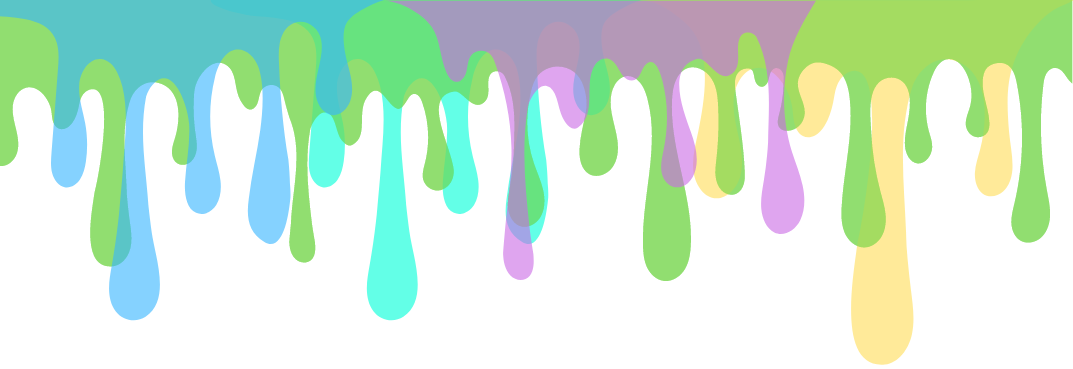
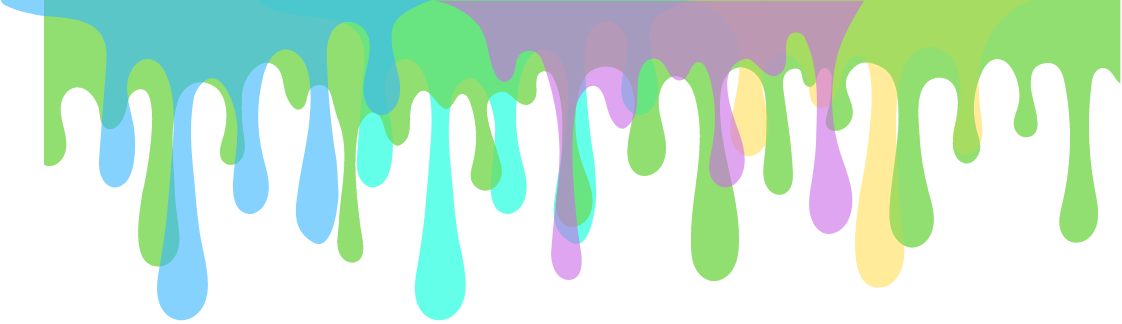
Cambios sobre las reglas de estilo CSS del muro de la aplicación para agregar el icono de eliminar y editar los post y también volver el tamaño del contenerdor a su ancho estrecho para que no se expanda cuando se use en desktop

diff --git a/src/style.css b/src/style.css
@@ -220,37 +220,62 @@ h1#tituloPass {
   margin-top: 150px;
 }
 /*----------------------Wall--------------*/
-
 #wall {
     margin: 0;
     box-sizing: border-box;
+    
 }
-
+  
 #timeLine {
-    position: absolute;
+    margin: 0;
+    padding: 0;
+    box-sizing: border-box;
+    text-align: center;
+    height: 100vh;
+    width: 100vw;
+    background-color: var(--wall-color);
 }
+  
+#containerWall {
+    display: flex;
+    flex-direction: column;
+    position: relative;
+    min-width: 400px;
+    margin: 0 auto; /* Alinear horizontalmente al centro */
+    justify-content: center;
+    background-color: var(--wall-color);
+}
+  
 
 #headerWall {
-    background-image: url(img/encabezadoMobile.png);
-    background-size: cover;
-    background-repeat: no-repeat;
+    display: flex;
+    background-color: #f1f1f1;
     height: 150px;
     position: relative;
+    min-width: 400px; /* Ancho mínimo */
+    justify-content: center;
     z-index: 1; /* Ajusta el valor según sea necesario */
 }
   
-div#newPostArea {
-    flex-direction: row;
-    align-items: center; /* Centrar horizontalmente */
-    justify-content: center; /* Centrar verticalmente */
+#headerWall::before {
+    content: "";
+    background-image: url(img/encabezadoMobile.png);
+    background-size: cover;
+    background-repeat: no-repeat;
+    position: absolute;
+    top: 0;
+    left: 0;
+    width: 100%;
+    height: 100%;
+    z-index: -1;
 }
+  
 
 img#logoWall {
     position: absolute;
     top: 5px;
     left: 5px;
     width: 120px;
-    
 }
 
 button#logOut {
@@ -273,25 +298,27 @@ button#logOut:active {
     transform: scale(0.9);
   }
 
-div#allPosts {
-    background-color: var(--wall-color);
-    top: 300px;
+#allPosts {
     display: flex;
+    position: relative;
+    background-color: var(--wall-color);
+    top: 0px;
     flex-direction: column;
     align-items: center; /* Centrar horizontalmente */
-    justify-content: center; /* Centrar verticalmente */
-    width: 100vw;
+    min-width: 400px; /* Ancho mínimo */
+    justify-content: center;
     /* Esto es opcional, ajusta la altura según tu diseño */
 }
   
 div.postContent {
     background-color: white;
-    margin-top: 20px;
+    margin-bottom: 11px;
     display: flex;
     flex-direction: column;
     align-items: center; /* Centrar horizontalmente */
-    justify-content: center; /* Centrar verticalmente */
-    width: 90vw;
+    min-width: 330px; /* Ancho mínimo */
+    
+    justify-content: center;
 }
 
 div.postHeader {
@@ -302,51 +329,62 @@ div.postHeader {
     justify-content: center; /* Centrar verticalmente */
 }
 
-div.counters {
-    background-color: white;
-    border-top: black solid 1px;
-    margin: 5px;
-    padding: 3px;
-    display: flex;
-    flex-direction: row;
-    align-items: center; /* Centrar horizontalmente */
-    justify-content: right; /* Centrar verticalmente */
-    width: 89vw;
-    gap: 100px; /* Espacio entre elementos */
-}
-
 #iconoLogo {
     position: relative;
     top: -5px;
     left: -18px;
 }
-div#newPostArea{
+
+#newPostArea {
+    padding: 5px;
     display: flex;
-    top: 50px;
-    width: 100%;
-    height: 80px;
-    background: white;
+    position: relative;
+    top: 0px;
+    height: 100px;
+    background-color: var(--wall-color);
+    width: 370px;
+    margin: 0 auto; /* Centrar horizontalmente */
     gap: 10px;
 }
-input#newPost {
+  
+div#newPostAreaTop {
+    padding: 5px;
+    display: flex; /* Añadido */
+    flex-direction: row; /* Asegura que los elementos estén en fila */
+    position: relative;
+    top: 5.5px;
+    height: 80px;
+    background: white;
+    min-width: 340px; /* Ancho mínimo */
+    margin: 0 auto; /* Centrar horizontalmente */
+    gap: 10px;
+    align-items: center; /* Centrar verticalmente */
+    justify-content: center;
+}
+  
+#newPost {
     background-color: var(--wall-color);
     height: 60px;
-    width: 270px;
+    width: 250px;
     font-size: 1.1em;
     border: var(--wall-color);
+    display: flex;
+    align-items: center; /* Centrar verticalmente */
+    justify-content: center; /* Centrar horizontalmente */
 }
-
+  
 #buttonPublish {
     height: 60px;
     width: 58px;
     display: flex;
+    align-items: center; /* Centrar verticalmente */
+    justify-content: center; /* Centrar horizontalmente */
     flex-direction: column;
-    align-items: center; /* Centrar horizontalmente */
-    justify-content: center; /* Centrar verticalmente */
     border-radius: 10px;
-    border: var(--wall-color);;
+    border: var(--wall-color);
     font-size: 0.9em;
 }
+  
 
 #sectionWall{
     background: var(--wall-color);
@@ -362,18 +400,33 @@ div#divPost {
 img#underConstruction{
     width: 200px;
 }
-.postContent {
 
-    margin-bottom: 0.5px;
-}
-
-div.comments {
+.iconBar {
+    background-color: white;
+    border-top: black solid 1px;
+    margin: 5px;
+    padding: 3px;
     display: flex;
-    flex-direction: row; /* Dos columnas automáticas */
-    justify-content: right; /* Justificar contenido hacia la derecha */
-    align-items: flex-end; /* Alinear contenido hacia abajo */
-    gap: 3px; 
+    flex-direction: row;
+    align-items: center; /* Centrar horizontalmente */
+    justify-content: center; /* Centrar verticalmente */
+    min-width: 330px; /* Ancho mínimo */
+    
+    gap: 100px; /* Espacio entre elementos */
 }
+
+div.edit {
+    display: flex;
+    justify-content: right; /* Justificar contenido hacia la derecha */
+    align-items: start; /* Alinear contenido hacia abajo */
+}
+
+div.trash {
+    display: flex;
+    justify-content: start; /* Justificar contenido hacia la derecha */
+    align-items: start; /* Alinear contenido hacia abajo */
+}
+
 
 div.likes {
     display: flex;

diff --git a/src/components/wall.js b/src/components/wall.js
@@ -20,9 +20,14 @@ function wall(navigateTo) {
     logOut(auth);
     navigateTo('/login');
   });
+  /*-----------------------------------Sección contenedor de cuerpo----------------------- */
+  const divContainerWall = document.createElement('section');
+  divContainerWall.id = 'containerWall'
   /*-----------------------------------Input caja de texto para publicacion----------------------- */
   const divNewPost = document.createElement('div');
   divNewPost.id = 'newPostArea';
+  const divNewPostTop = document.createElement('div');
+  divNewPostTop.id = 'newPostAreaTop';
   const inputNewPost = document.createElement('input');
   inputNewPost.id = 'newPost';
   inputNewPost.type = 'text';
@@ -43,7 +48,8 @@ function wall(navigateTo) {
     loadAllPostStart();
   });
 
-  divNewPost.append(inputNewPost, buttonPublishNewPost);
+  divNewPostTop.append(inputNewPost, buttonPublishNewPost);
+  divNewPost.append(divNewPostTop);
   /* -----------------------------------Cajas para despligue de publicaciones------------------- */
   const divAllPosts = document.createElement('div');
   divAllPosts.id = 'allPosts';
@@ -75,17 +81,25 @@ function wall(navigateTo) {
         <p>${doc.data().post}</p>
         </div>
       </div>
-      <div class="counters">
-        <div class="comments">
-        <svg class="commentIcon" width="20" height="20" viewBox="0 0 24 24" fill="none" stroke="currentColor" stroke-width="2" stroke-linecap="round" stroke-linejoin="round" aria-hidden="true"><path d="M21 11.5a8.38 8.38 0 0 1-.9 3.8 8.5 8.5 0 0 1-7.6 4.7 8.38 8.38 0 0 1-3.8-.9L3 21l1.9-5.7a8.38 8.38 0 0 1-.9-3.8 8.5 8.5 0 0 1 4.7-7.6 8.38 8.38 0 0 1 3.8-.9h.5a8.48 8.48 0 0 1 8 8v.5z"></path></svg>
-        <div class="comment-count">${doc.data().comments}</div>
-      </div>
-        <div class="likes">
-        <svg  class="likeIcon" width="20" height="20" viewBox="0 0 24 24" fill="${userLikePost > 0 ? "red" : "none"}"  stroke="currentColor" stroke-width="2" stroke-linecap="round" stroke-linejoin="round" aria-hidden="true"><path class="likeIcon"  d="M20.84 4.61a5.5 5.5 0 0 0-7.78 0L12 5.67l-1.06-1.06a5.5 5.5 0 0 0-7.78 7.78l1.06 1.06L12 21.23l7.78-7.78 1.06-1.06a5.5 5.5 0 0 0 0-7.78z"></path></svg>
-        <div class="likes-count">
-        ${likeCount}
+      <div class="iconBar">
+
+        <div class="edit">
+          <svg xmlns="http://www.w3.org/2000/svg"  viewBox="0 0 50 50" width="20px" height="20px"><path d="M 43.125 2 C 41.878906 2 40.636719 2.488281 39.6875 3.4375 L 38.875 4.25 L 45.75 11.125 C 45.746094 11.128906 46.5625 10.3125 46.5625 10.3125 C 48.464844 8.410156 48.460938 5.335938 46.5625 3.4375 C 45.609375 2.488281 44.371094 2 43.125 2 Z M 37.34375 6.03125 C 37.117188 6.0625 36.90625 6.175781 36.75 6.34375 L 4.3125 38.8125 C 4.183594 38.929688 4.085938 39.082031 4.03125 39.25 L 2.03125 46.75 C 1.941406 47.09375 2.042969 47.457031 2.292969 47.707031 C 2.542969 47.957031 2.90625 48.058594 3.25 47.96875 L 10.75 45.96875 C 10.917969 45.914063 11.070313 45.816406 11.1875 45.6875 L 43.65625 13.25 C 44.054688 12.863281 44.058594 12.226563 43.671875 11.828125 C 43.285156 11.429688 42.648438 11.425781 42.25 11.8125 L 9.96875 44.09375 L 5.90625 40.03125 L 38.1875 7.75 C 38.488281 7.460938 38.578125 7.011719 38.410156 6.628906 C 38.242188 6.246094 37.855469 6.007813 37.4375 6.03125 C 37.40625 6.03125 37.375 6.03125 37.34375 6.03125 Z"/></svg>
         </div>
+
+        <div class="delete">
+          <svg xmlns="http://www.w3.org/2000/svg"  viewBox="0 0 50 50" width="20px" height="20px"><path d="M 42 5 L 32 5 L 32 3 C 32 1.347656 30.652344 0 29 0 L 21 0 C 19.347656 0 18 1.347656 18 3 L 18 5 L 8 5 C 7.449219 5 7 5.449219 7 6 C 7 6.550781 7.449219 7 8 7 L 9.085938 7 L 12.695313 47.515625 C 12.820313 48.90625 14.003906 50 15.390625 50 L 34.605469 50 C 35.992188 50 37.175781 48.90625 37.300781 47.515625 L 40.914063 7 L 42 7 C 42.554688 7 43 6.550781 43 6 C 43 5.449219 42.554688 5 42 5 Z M 20 44 C 20 44.554688 19.550781 45 19 45 C 18.449219 45 18 44.554688 18 44 L 18 11 C 18 10.449219 18.449219 10 19 10 C 19.550781 10 20 10.449219 20 11 Z M 20 3 C 20 2.449219 20.449219 2 21 2 L 29 2 C 29.550781 2 30 2.449219 30 3 L 30 5 L 20 5 Z M 26 44 C 26 44.554688 25.550781 45 25 45 C 24.449219 45 24 44.554688 24 44 L 24 11 C 24 10.449219 24.449219 10 25 10 C 25.550781 10 26 10.449219 26 11 Z M 32 44 C 32 44.554688 31.554688 45 31 45 C 30.445313 45 30 44.554688 30 44 L 30 11 C 30 10.449219 30.445313 10 31 10 C 31.554688 10 32 10.449219 32 11 Z"/></svg>
+        </div>
+
+        <div class="likes">
+          <svg  class="likeIcon" width="20" height="20" viewBox="0 0 24 24" fill="${userLikePost > 0 ? "red" : "none"}"  stroke="currentColor" stroke-width="2" stroke-linecap="round" stroke-linejoin="round" aria-hidden="true"><path class="likeIcon"  d="M20.84 4.61a5.5 5.5 0 0 0-7.78 0L12 5.67l-1.06-1.06a5.5 5.5 0 0 0-7.78 7.78l1.06 1.06L12 21.23l7.78-7.78 1.06-1.06a5.5 5.5 0 0 0 0-7.78z"></path></svg>
+          <div class="likes-count">
+          ${likeCount}
+          </div>
+        </div>
+
       </div>
+
       </div>`;
       content.addEventListener('click', async (e) => {
         console.log(doc.data().likeCount);
@@ -120,7 +134,8 @@ function wall(navigateTo) {
   // esta función hace que se carguen todos los posts al inicio
   loadAllPostStart();
 
-  sectionWall.append(header, divNewPost, divAllPosts);
+  sectionWall.append(header, divContainerWall);
+  divContainerWall.append(divNewPost, divAllPosts);
   header.append(logoWall, logOutButton);
   return sectionWall;
 }
